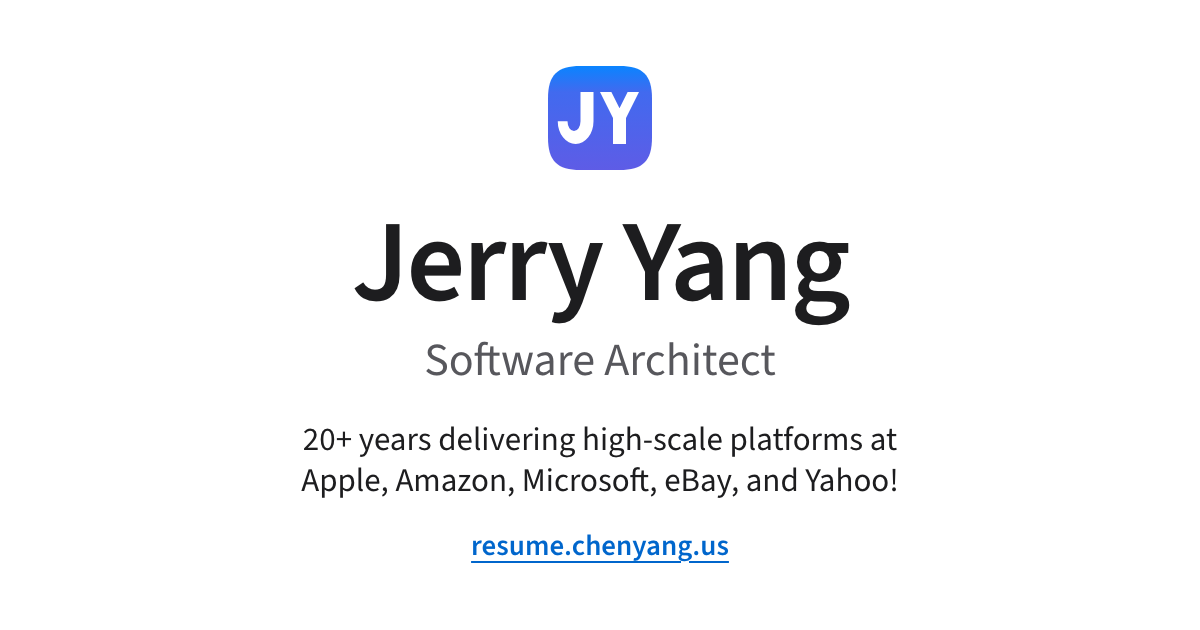
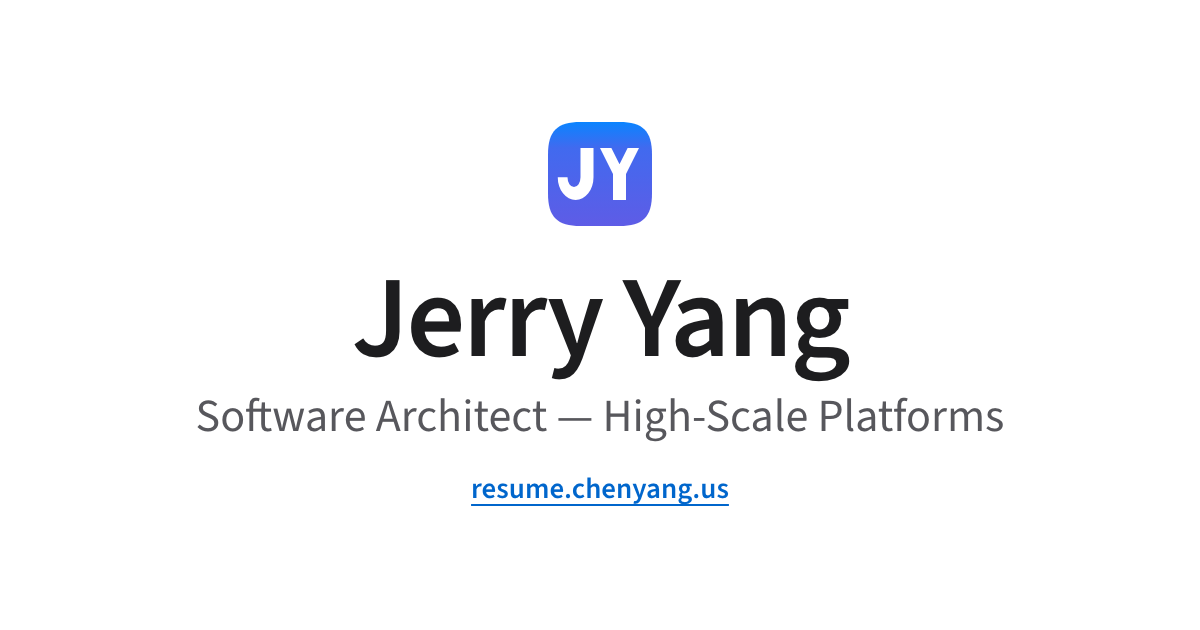
feat(seo): re-render the card with the final role line and paste its alt text

Changed region(s): [[0.2775, 0.0905, 0.7092, 0.6032], [0.1542, 0.6333, 0.8325, 0.8143], [0.4008, 0.8444, 0.6167, 0.9048]]

diff --git a/public/index.html b/public/index.html
@@ -43,14 +43,14 @@
     <meta property="og:url" content="https://resume.chenyang.us/" />
     <meta
       property="og:image"
-      content="https://resume.chenyang.us/img/og/jerry-yang.png?v=87536855"
+      content="https://resume.chenyang.us/img/og/jerry-yang.png?v=c0fbbd5e"
     />
     <meta property="og:image:type" content="image/png" />
     <meta property="og:image:width" content="1200" />
     <meta property="og:image:height" content="630" />
     <meta
       property="og:image:alt"
-      content="Jerry Yang, Software Architect: the JY monogram above the name, title, and resume.chenyang.us"
+      content="Card with the JY monogram, the name Jerry Yang, the role Software Architect — High-Scale Platforms, and resume.chenyang.us."
     />
     <meta property="profile:first_name" content="Jerry" />
     <meta property="profile:last_name" content="Yang" />
@@ -64,11 +64,11 @@
     />
     <meta
       name="twitter:image"
-      content="https://resume.chenyang.us/img/og/jerry-yang.png?v=87536855"
+      content="https://resume.chenyang.us/img/og/jerry-yang.png?v=c0fbbd5e"
     />
     <meta
       name="twitter:image:alt"
-      content="Jerry Yang, Software Architect: the JY monogram above the name, title, and resume.chenyang.us"
+      content="Card with the JY monogram, the name Jerry Yang, the role Software Architect — High-Scale Platforms, and resume.chenyang.us."
     />
 
     <!-- Google Analytics 4; the config lives in a file because the CSP allows no inline script. -->
@@ -112,8 +112,8 @@
           {
             "@type": "ImageObject",
             "@id": "https://resume.chenyang.us/#primaryimage",
-            "url": "https://resume.chenyang.us/img/og/jerry-yang.png?v=87536855",
-            "contentUrl": "https://resume.chenyang.us/img/og/jerry-yang.png?v=87536855",
+            "url": "https://resume.chenyang.us/img/og/jerry-yang.png?v=c0fbbd5e",
+            "contentUrl": "https://resume.chenyang.us/img/og/jerry-yang.png?v=c0fbbd5e",
             "width": 1200,
             "height": 630
           },

diff --git a/tools/og-card/card.html b/tools/og-card/card.html
@@ -17,12 +17,9 @@
         --card-monogram: 104px;
         --card-name: 116px;
         --card-title: 46px;
-        --card-tagline: 33px;
         --card-url: 29px;
-        --card-measure: 900px;
         --card-gap-monogram: 30px;
         --card-gap-title: 4px;
-        --card-gap-tagline: 30px;
         --card-gap-url: 26px;
       }
 
@@ -68,15 +65,6 @@
         line-height: var(--leading-heading);
       }
 
-      .card-tagline {
-        max-width: var(--card-measure);
-        margin: var(--card-gap-tagline) 0 0;
-        color: var(--color-text);
-        font-size: var(--card-tagline);
-        line-height: var(--leading-heading);
-        text-wrap: balance;
-      }
-
       .card-url {
         margin: var(--card-gap-url) 0 0;
         color: var(--color-link);
@@ -92,10 +80,7 @@
   <body>
     <img class="card-monogram" src="../../public/favicon.svg" alt="" />
     <h1 class="card-name">Jerry Yang</h1>
-    <p class="card-title">Software Architect</p>
-    <p class="card-tagline">
-      20+ years delivering high-scale platforms at Apple, Amazon, Microsoft, eBay, and Yahoo!
-    </p>
+    <p class="card-title">Software Architect — High-Scale Platforms</p>
     <p class="card-url">resume.chenyang.us</p>
   </body>
 </html>
